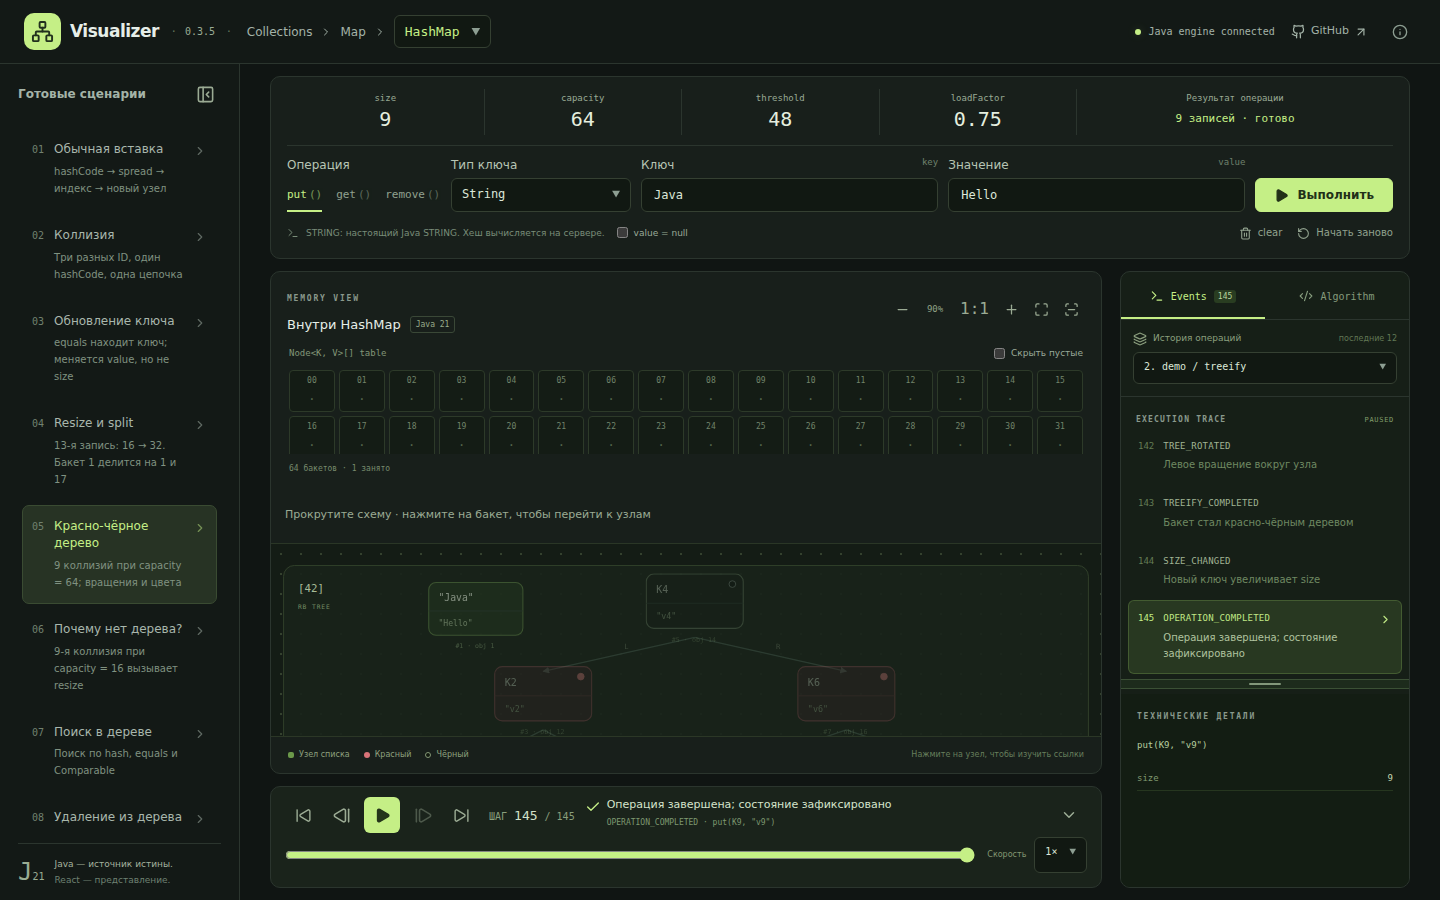
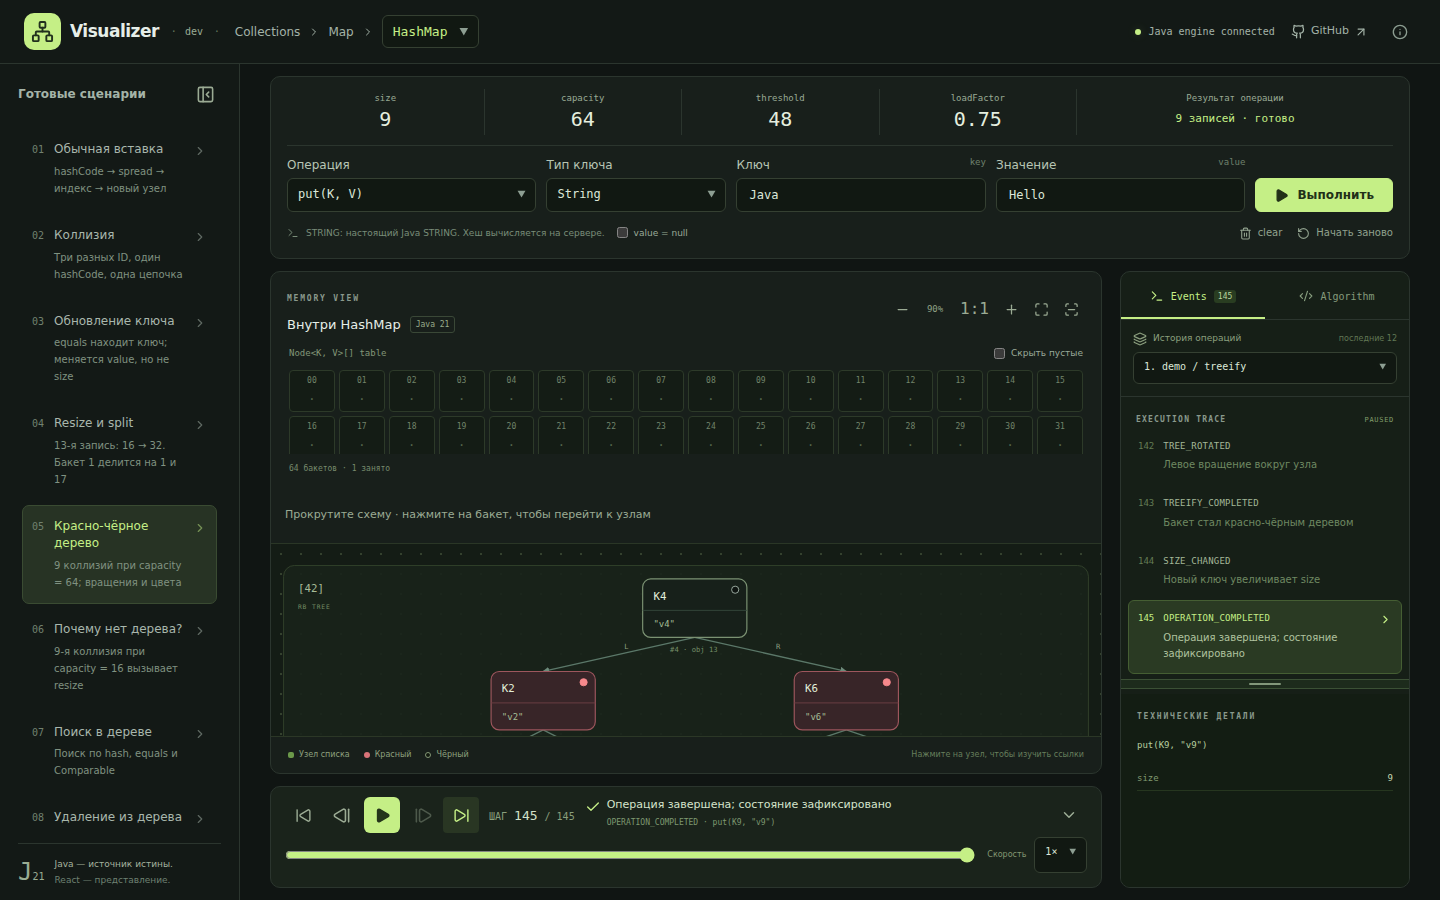
feat: select HashMap operations with a dropdown
Use the same native operation selector as ArrayList, preserve put/get/remove arguments, and remove unused tab styles. Cover pointer, touch, keyboard selection and Java command results on desktop and mobile.

Validation: production build, 94 unit tests and 7 focused E2E checks passed; one desktop-only check skipped on mobile. Refs #50.

diff --git a/frontend/e2e/hashmap-commands.spec.ts b/frontend/e2e/hashmap-commands.spec.ts
@@ -1,0 +1,85 @@
+import { test, expect, expectServerSize } from "./support";
+
+test("HashMap operation dropdown supports pointer, keyboard and Java put/get/remove", async ({
+  page,
+  isMobile,
+}) => {
+  await page.setViewportSize(
+    isMobile ? { width: 412, height: 839 } : { width: 1440, height: 720 },
+  );
+  await page.goto("/");
+  const action = page.locator(".primary-button");
+  const operation = page.getByRole("combobox", {
+    name: "Операция",
+    exact: true,
+  });
+  await expect(action).toBeEnabled();
+  await expect(operation).toHaveValue("PUT");
+  await expect(page.locator(".operation-tabs")).toHaveCount(0);
+  let writes = 0;
+  page.on("request", (request) => {
+    if (request.method() === "POST" && request.url().includes("/commands"))
+      writes++;
+  });
+
+  if (isMobile) await operation.tap();
+  else await operation.click();
+  const get = page.getByRole("option", { name: "get(K)", exact: true });
+  if (isMobile) await get.tap();
+  else await get.click();
+  await expect(operation).toHaveValue("GET");
+  await expect(page.getByLabel("Значение", { exact: true })).toHaveCount(0);
+  await expect(action).toHaveAccessibleName("Выполнить get");
+  await operation.focus();
+  await page.keyboard.press("Space");
+  await page.keyboard.press("End");
+  await page.keyboard.press("Enter");
+  await expect(operation).toHaveValue("REMOVE");
+  await expect(action).toHaveAccessibleName("Выполнить remove");
+  expect(writes).toBe(0);
+
+  async function execute(type: string) {
+    const before = writes;
+    await operation.selectOption(type);
+    expect(writes).toBe(before);
+    const response = page.waitForResponse(
+      (r) => r.url().includes("/commands?") && r.ok(),
+    );
+    await action.click();
+    const data = await (await response).json();
+    await expect(action).toBeEnabled();
+    await page.getByRole("button", { name: "В конец", exact: true }).click();
+    expect(data.trace.operation.type).toBe(type);
+    expect(writes).toBe(before + 1);
+    return data.trace;
+  }
+  await operation.selectOption("PUT");
+  await expect(page.getByLabel("Значение", { exact: true })).toHaveValue(
+    "Hello",
+  );
+  await page.getByLabel("Значение", { exact: true }).fill("dropdown value");
+  const inserted = await execute("PUT");
+  expect(inserted.operation.value).toBe("dropdown value");
+  await expectServerSize(page, 1);
+  const found = await execute("GET");
+  expect(found.result.value).toBe("dropdown value");
+  await expect(page.getByTestId("operation-result")).toHaveText(
+    '"dropdown value"',
+  );
+  const removed = await execute("REMOVE");
+  expect(removed.result.previousValue).toBe("dropdown value");
+  await expectServerSize(page, 0);
+  await operation.selectOption("PUT");
+  await expect(page.getByLabel("Значение", { exact: true })).toHaveValue(
+    "dropdown value",
+  );
+  await expect(action).toHaveText("Выполнить");
+  await page.setViewportSize({ width: 320, height: 740 });
+  await expect(operation).toBeVisible();
+  expect(
+    await page.evaluate(
+      () => document.documentElement.scrollWidth <= innerWidth,
+    ),
+  ).toBe(true);
+  expect(writes).toBe(3);
+});

diff --git a/frontend/src/style.css b/frontend/src/style.css
@@ -428,26 +428,6 @@ main {
   border-bottom: 1px solid var(--line);
   margin-bottom: 10px;
 }
-.operation-tabs {
-  display: flex;
-  gap: 22px;
-}
-.operation-tabs button {
-  border: 0;
-  border-bottom: 2px solid transparent;
-  background: transparent;
-  color: #91a18f;
-  padding: 13px 2px 11px;
-  font: 12px var(--mono);
-}
-.operation-tabs button.active {
-  color: var(--lime);
-  border-bottom-color: var(--lime);
-}
-.operation-tabs button span {
-  opacity: 0.55;
-  margin-left: 2px;
-}
 .reset-actions {
   display: flex;
   gap: 15px;
@@ -1735,12 +1715,6 @@ main {
   .command-topline {
     gap: 12px;
   }
-  .operation-tabs {
-    gap: 15px;
-  }
-  .operation-tabs button {
-    font-size: 10px;
-  }
   .reset-actions {
     gap: 10px;
   }
@@ -2627,17 +2601,6 @@ summary:focus-visible {
 .workbench-controls .command-form .field {
   flex: 1 1 110px;
 }
-.workbench-controls .command-form .operation-field {
-  flex: 0 1 154px;
-}
-.workbench-controls .operation-tabs {
-  height: 34px;
-  gap: 14px;
-}
-.workbench-controls .operation-tabs button {
-  padding: 5px 0;
-  font-size: 11px;
-}
 .workbench-controls .input-caption {
   flex-wrap: wrap;
   padding-top: 8px;
@@ -2833,9 +2796,6 @@ summary:focus-visible {
     flex: 1 1 40%;
     min-width: 0;
   }
-  .workbench-controls .command-form .operation-field {
-    flex-basis: 100%;
-  }
   .workbench-controls .primary-button {
     flex: 1 1 40%;
     min-height: 44px;
@@ -2846,9 +2806,6 @@ summary:focus-visible {
   .workbench-controls .secondary-button {
     min-height: 44px;
     height: 44px;
-  }
-  .workbench-controls .operation-tabs {
-    min-height: 40px;
   }
   .workbench-controls .reset-actions {
     gap: 12px;

diff --git a/frontend/e2e/visualizer.spec.ts b/frontend/e2e/visualizer.spec.ts
@@ -79,16 +79,16 @@ test("real Java session, put/get/remove, null and immutable playback", async ({
     .click();
   await page.getByRole("button", { name: "Пауза", exact: true }).click();
   expect(writes).toBe(1);
-  await page.getByRole("button", { name: "get()", exact: true }).click();
+  await page.getByLabel("Операция", { exact: true }).selectOption("GET");
   await page.getByRole("button", { name: "Выполнить get" }).click();
   await finish(page);
   await expect(page.getByTestId("operation-result")).toHaveText('"Hello"');
-  await page.getByRole("button", { name: "remove()", exact: true }).click();
+  await page.getByLabel("Операция", { exact: true }).selectOption("REMOVE");
   await page.getByRole("button", { name: "Выполнить remove" }).click();
   await expectServerSize(page, 0);
   await finish(page);
   await expect(page.getByTestId("diagram").getByRole("button")).toHaveCount(0);
-  await page.getByRole("button", { name: "put()", exact: true }).click();
+  await page.getByLabel("Операция", { exact: true }).selectOption("PUT");
   await page.getByLabel("Тип ключа").selectOption("NULL");
   await page.getByLabel("value = null").check();
   await page.getByRole("button", { name: "Выполнить put" }).click();

diff --git a/frontend/src/features/hashmap/CommandPanel.tsx b/frontend/src/features/hashmap/CommandPanel.tsx
@@ -67,23 +67,18 @@ export function CommandPanel({
     >
       <div className="controls-top">{metrics}</div>
       <form onSubmit={submit} className="command-form">
-        <div className="field operation-field">
+        <label className="field">
           <span>Операция</span>
-          <div className="operation-tabs">
-            {(["PUT", "GET", "REMOVE"] as const).map((t) => (
-              <button
-                type="button"
-                key={t}
-                className={mode === t ? "active" : ""}
-                onClick={() => setMode(t)}
-                aria-pressed={mode === t}
-              >
-                {t.toLowerCase()}
-                <span>()</span>
-              </button>
-            ))}
-          </div>
-        </div>
+          <select
+            aria-label="Операция"
+            value={mode}
+            onChange={(event) => setMode(event.target.value as typeof mode)}
+          >
+            <option value="PUT">put(K, V)</option>
+            <option value="GET">get(K)</option>
+            <option value="REMOVE">remove(K)</option>
+          </select>
+        </label>
         <label className="field key-type">
           <span>Тип ключа</span>
           <select

diff --git a/frontend/e2e/session-recovery.spec.ts b/frontend/e2e/session-recovery.spec.ts
@@ -55,7 +55,7 @@ test("a lost committed response recovers state without retrying rapid commands",
   await response.dispose();
 
   // Recovery has released the lock and refreshed revision for an explicit next command.
-  await page.getByRole("button", { name: "get()", exact: true }).click();
+  await page.getByLabel("Операция", { exact: true }).selectOption("GET");
   await page.getByRole("button", { name: "Выполнить get" }).click();
   await expect(page.locator(".primary-button")).toBeEnabled();
   await page.getByRole("button", { name: "В конец", exact: true }).click();

diff --git a/frontend/e2e/workspace.spec.ts b/frontend/e2e/workspace.spec.ts
@@ -190,7 +190,7 @@ test("sidebar reclaims width and scrolls independently without resetting playbac
   await expect(page.locator(".zoom-controls > span")).toHaveText("100%");
   await page.keyboard.press("Tab");
   await expect(
-    page.getByRole("button", { name: "put()", exact: true }),
+    page.getByRole("combobox", { name: "Операция", exact: true }),
   ).toBeFocused();
   await page.getByLabel("Скорость воспроизведения").selectOption("0.5");
   await page

diff --git a/docs/verification/issue-50/README.md b/docs/verification/issue-50/README.md
@@ -14,7 +14,9 @@ The header groups Visualizer, version and collection navigation at the left;
 mobile hides breadcrumb ancestors and 320 px hides the brand word. Constructor,
 centered metrics and command inputs share one panel. HashMap reuses the layout
 without a constructor placeholder. The visible action is `Выполнить`, retaining
-operation context in its accessible name.
+operation context in its accessible name. Both collections use a native operation
+dropdown; HashMap offers put/get/remove while retaining separate clear/reset
+actions. Changing the selection preserves input values and sends no command.
 
 `Результат операции` contains a neutral `—` until the selected trace's **last**
 frame. Earlier `OPERATION_COMPLETED` frames inside a scenario do not reveal its
@@ -40,6 +42,8 @@ the complete keyboard-readable text and inspector information.
 - [Desktop HashMap](desktop-hashmap.png)
 - [412 px mobile](mobile-412.png)
 - [320 px mobile](mobile-320.png)
+- HashMap dropdown controls: [412 px](mobile-412-hashmap-commands.png),
+  [320 px](mobile-320-hashmap-commands.png)
 
 These are a curated evidence set; raw investigation recordings and transient local
 harnesses are deliberately excluded.
@@ -73,3 +77,12 @@ the repository Playwright configs. Temporary configs only redirect ports/origins
 no production limits or live infrastructure were modified. The user preview on
 :5173/:8080 is retained separately. Physical devices, Firefox/Safari and manual
 screen-reader testing were not performed.
+
+## HashMap dropdown follow-up
+
+The final selector change was validated with a fresh production frontend build,
+94 unit tests, and focused Chromium command/recovery/keyboard checks: 7 passed,
+1 intentional desktop-sidebar skip on mobile. The checks exercise pointer/touch
+and keyboard selection, no submission on selection, Java put/get/remove values,
+retained form input and 320 px overflow. The full branch validation above predates
+this final selector-only follow-up; Java and session logic are unchanged.
